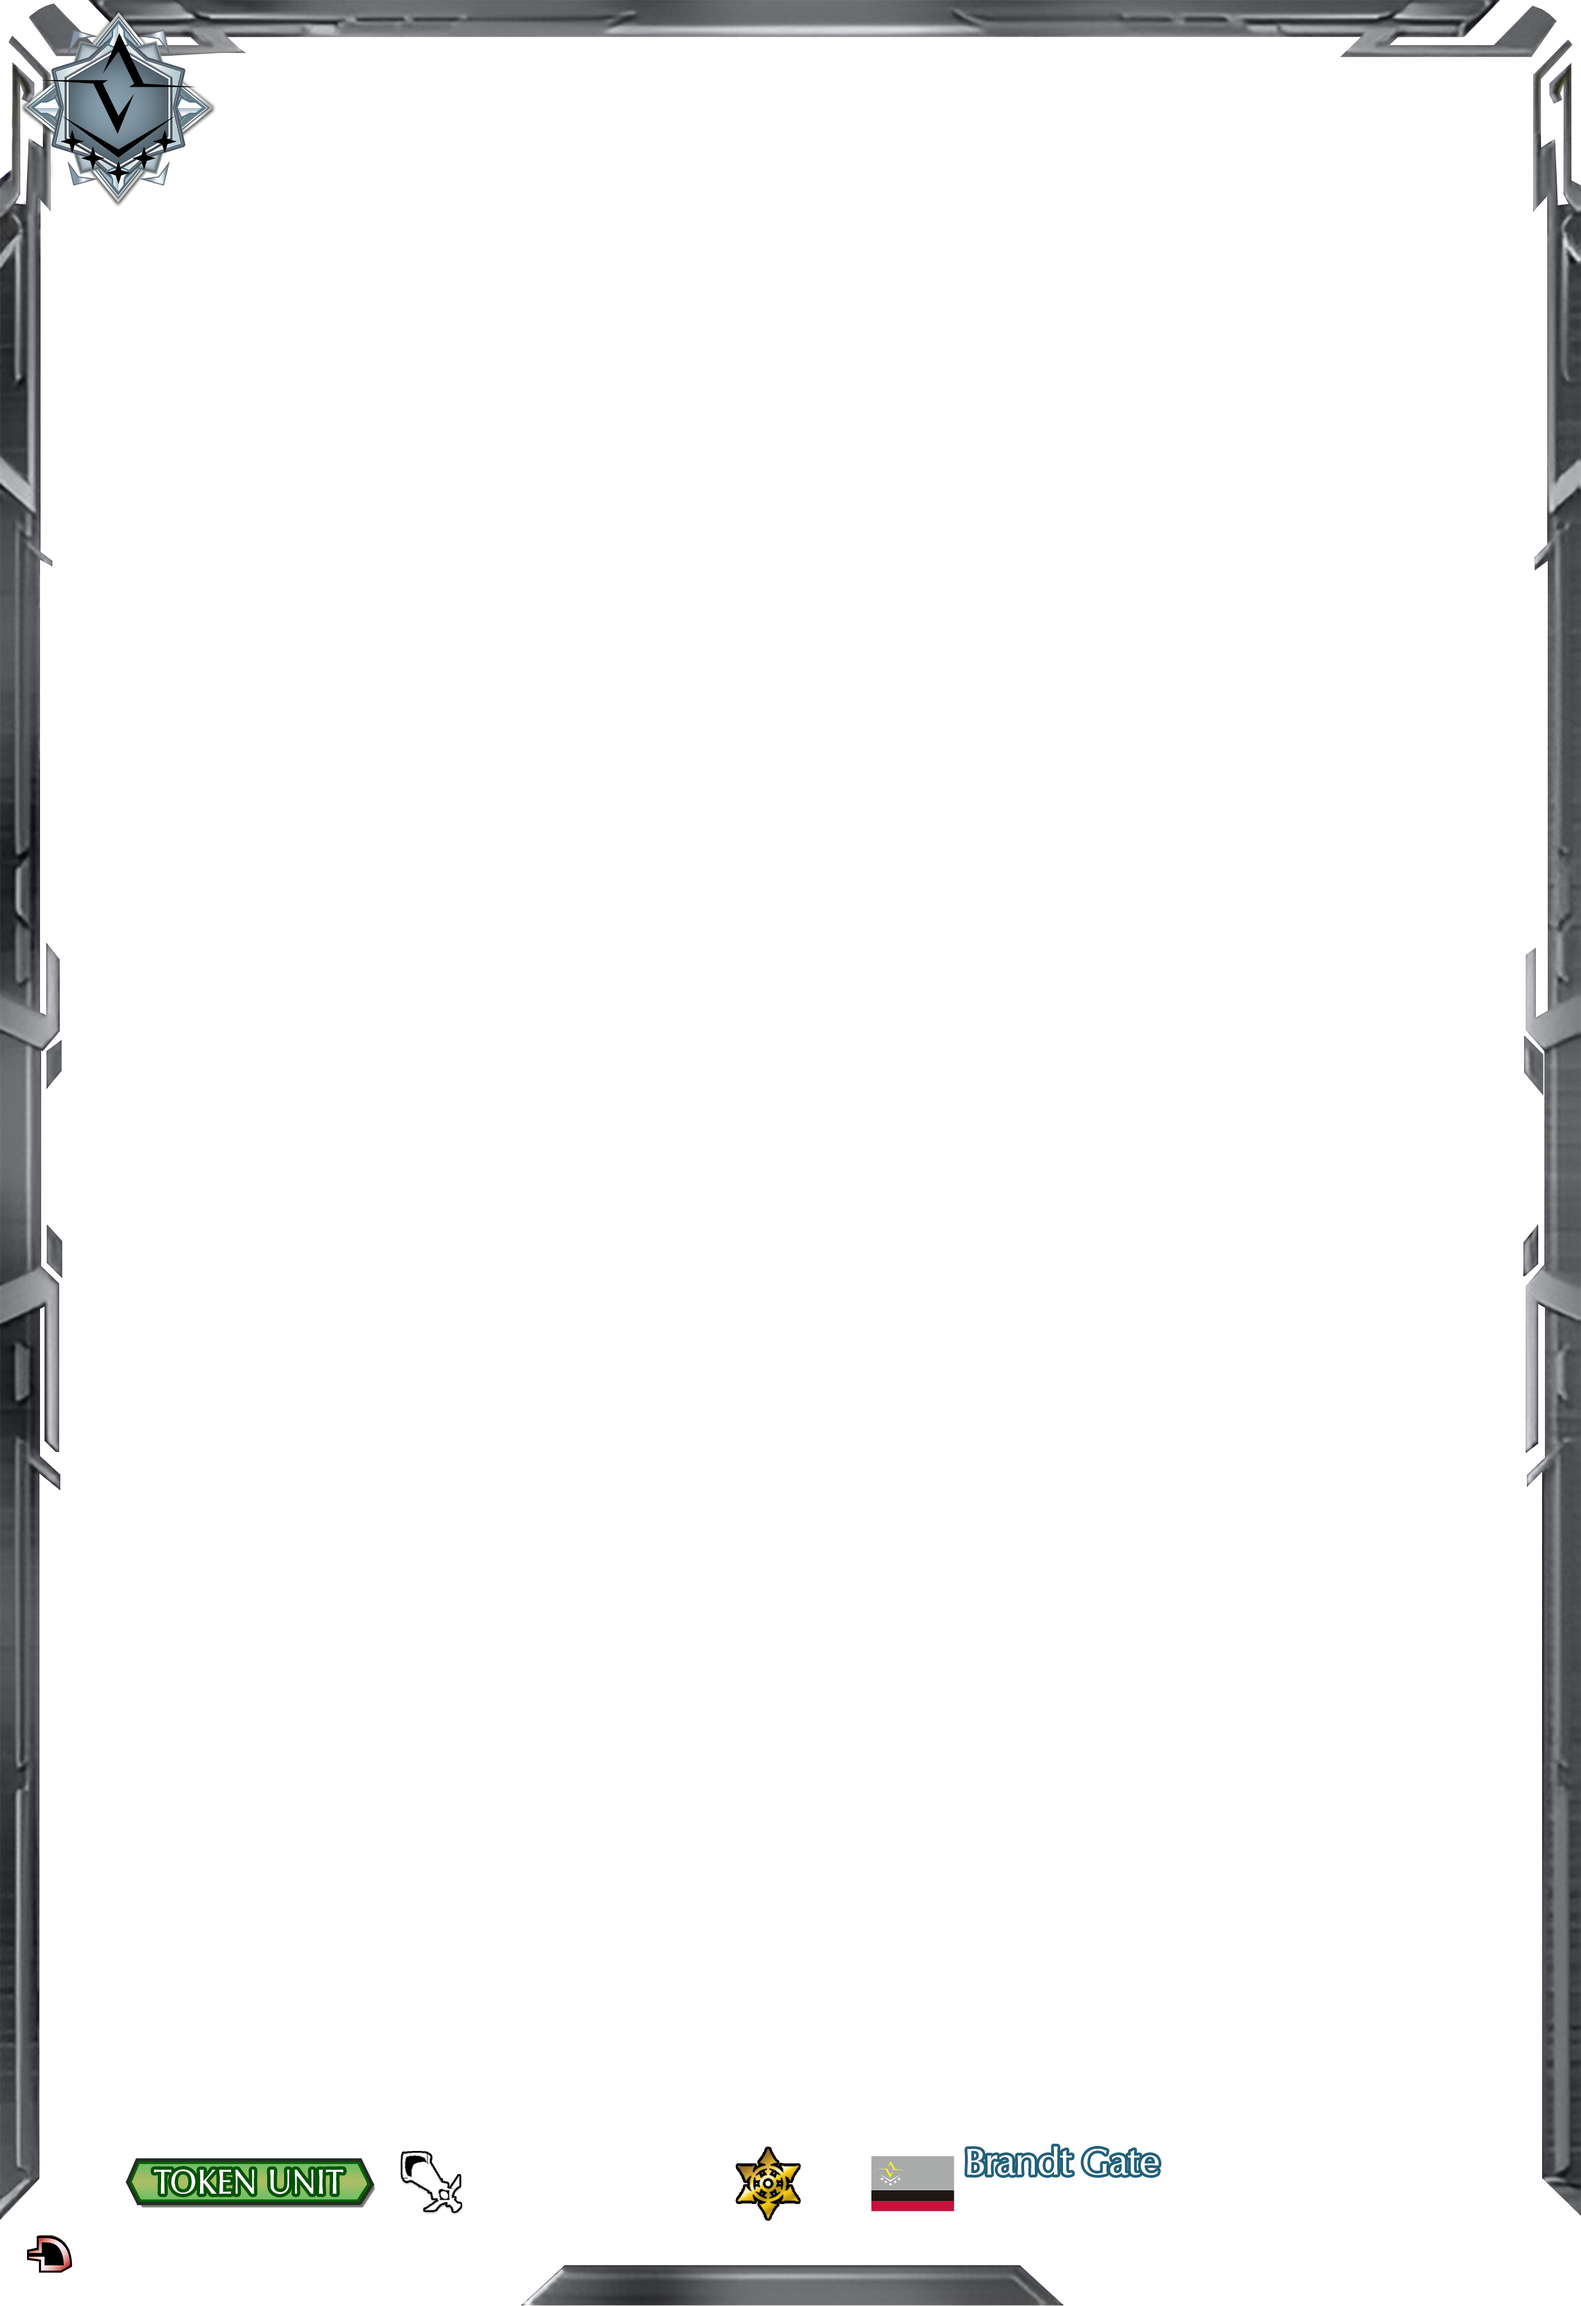
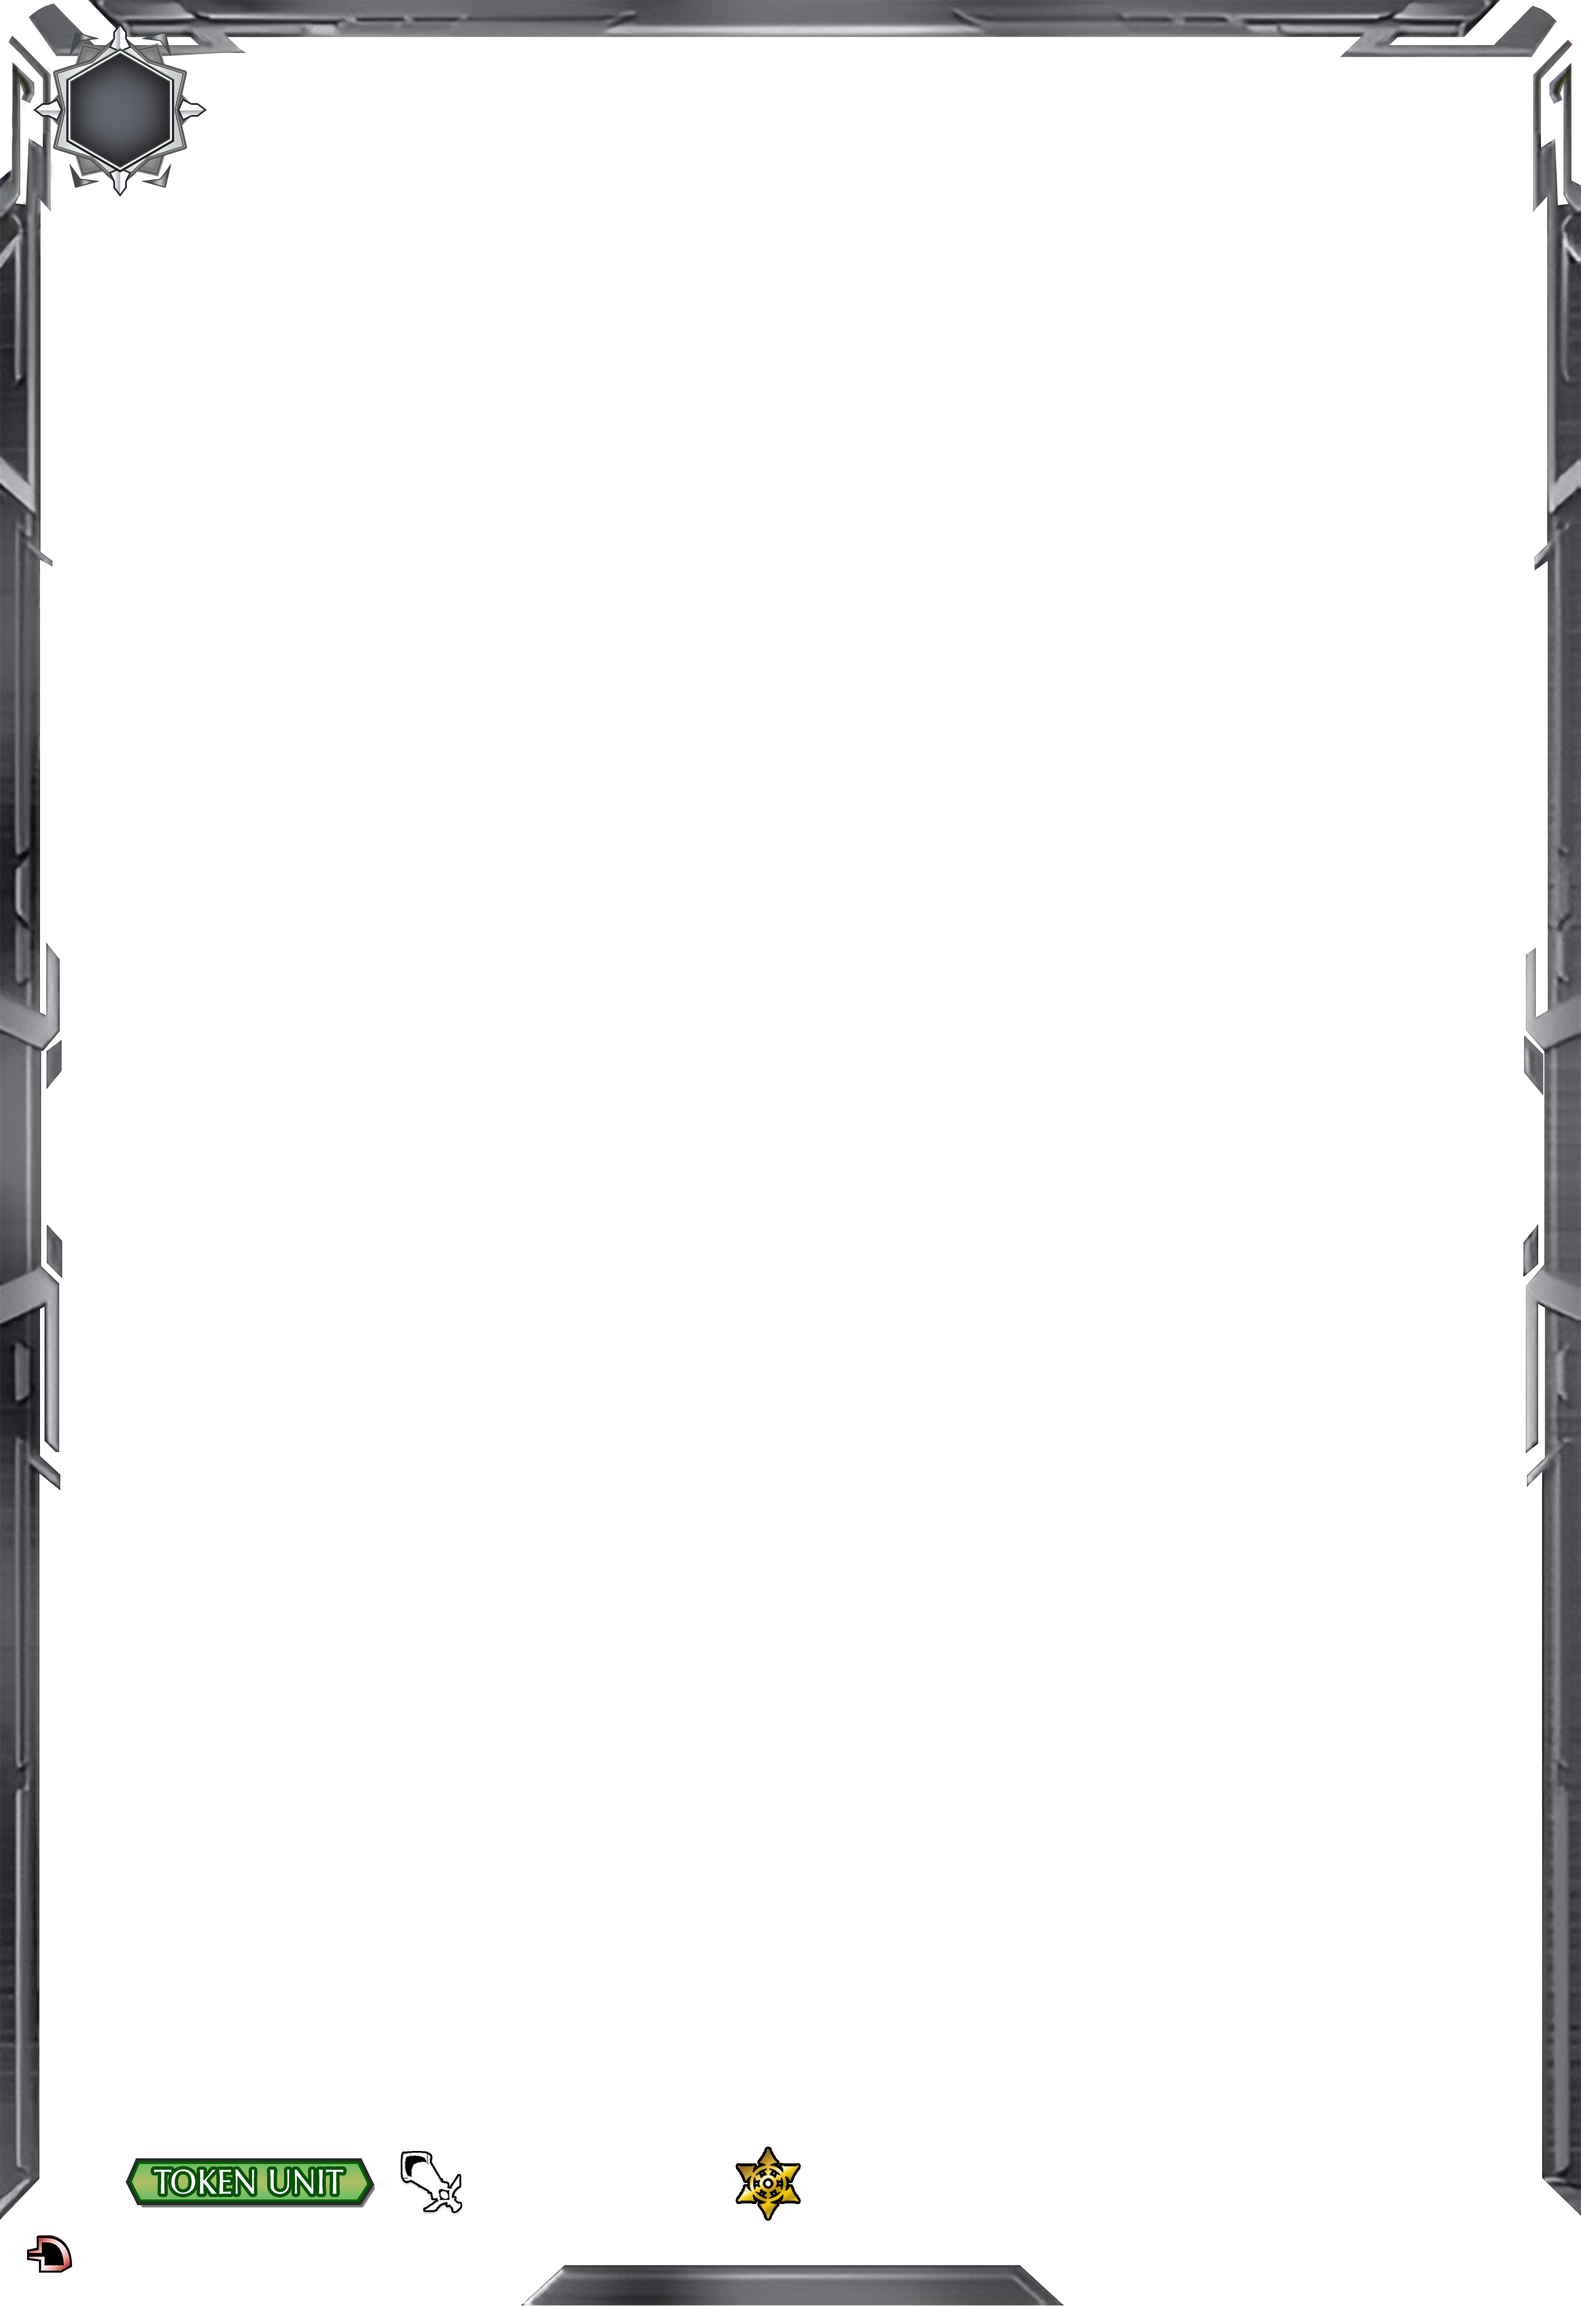
Quick Token Bug Fix

Changed region(s): [[0.0, 0.0, 0.1551, 0.0931], [0.5273, 0.9313, 0.7444, 0.9624]]

diff --git a/script/list.js b/script/list.js
@@ -150,6 +150,19 @@ function typeSet() {
       enc.style.display = 'none'
       dual.checked = false
       dualab.style.display = 'none'
+    }else if (select1 === 'tk'){
+      tri = "none";
+      tri1 = "flex";
+      im = "assets/none_.png"
+      se.style.display = 'flex'
+      nuborder.style.display = 'none'
+      crs.style.display = 'flex'
+      image0.style.display = 'flex'
+      encounter.style.display = 'none'
+      enc.style.display = 'none'
+      dualab.style.display = 'none'
+      dual.checked = false
+      dualab.style.display = 'none'
     }
 
 
@@ -276,13 +289,21 @@ window.addEventListener('DOMContentLoaded', function() {
 window.addEventListener('DOMContentLoaded', function() {
   var trg = document.getElementById('trg');
   var image = document.getElementById('trigger');
-  
+  var type = this.document.getElementById('cts');
+
+
   trg.addEventListener('change', update);
   
   function update() {
-    var select = trg.value;
-    var src_ = "assets/" + select + ".png";
-    image.src = src_;
+
+    if (type.value == 'tu'){
+      var select = trg.value;
+      var src_ = "assets/" + select + ".png";
+      image.src = src_;
+    }else{
+      var src_ = "assets/" + "none" + ".png";
+    }
+    
   }
 });
 
